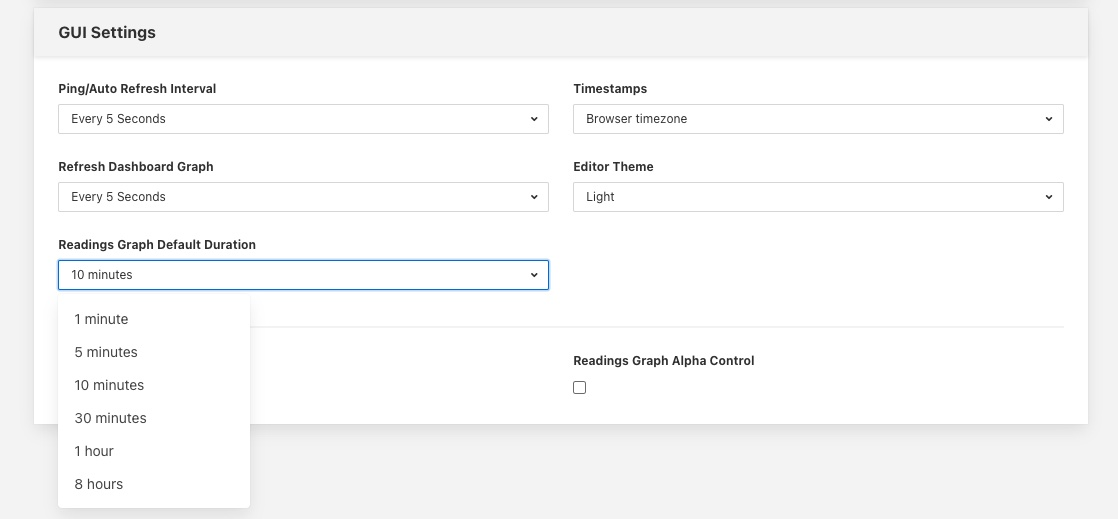
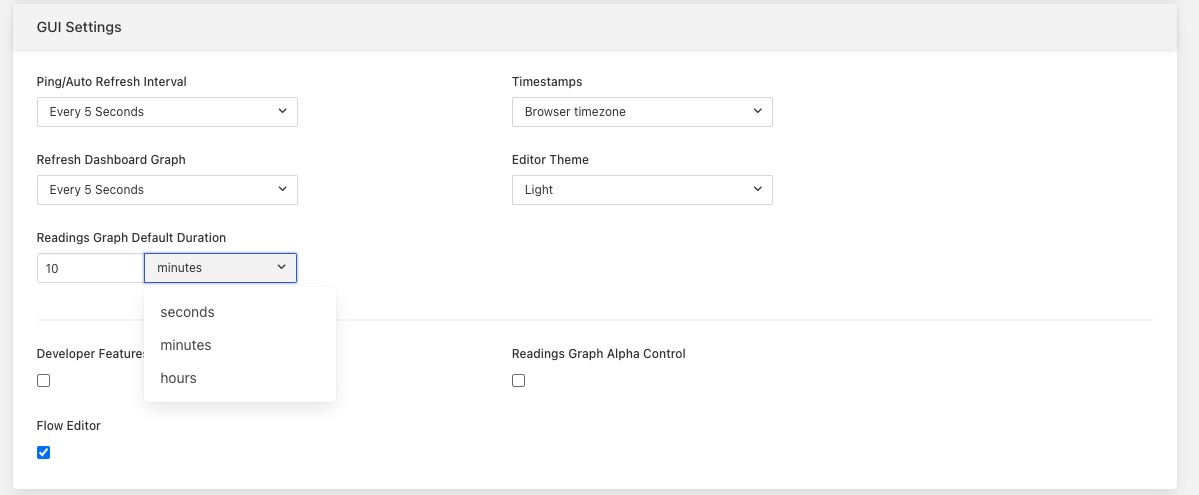
Update all sections

diff --git a/docs/quick_start/viewing.rst b/docs/quick_start/viewing.rst
@@ -3,15 +3,20 @@
 .. |view_graph| image:: ../images/view_graph.jpg
 .. |view_hide| image:: ../images/view_hide.jpg
 .. |view_summary| image:: ../images/view_summary.jpg
+.. |view_tabular| image:: ../images/view_tabular.jpg
 .. |view_times| image:: ../images/view_times.jpg
 .. |view_spreadsheet| image:: ../images/view_spreadsheet.jpg
 .. |gui_settings| image:: ../images/gui_settings.jpg
+.. |graph_buttons| image:: ../images/graph_buttons.jpg
+.. |graph_paused| image:: ../images/graph_paused.jpg
 .. |multi_graph1| image:: ../images/multi_graph1.jpg
 .. |multi_graph2| image:: ../images/multi_graph2.jpg
 .. |multi_graph3| image:: ../images/multi_graph3.jpg
 .. |latest_icon| image:: ../images/latest_icon.jpg
 .. |current_icon| image:: ../images/current_icon.jpg
 .. |latest_graph| image:: ../images/latest_graph.jpg
+.. |must_recent_icon| image:: ../images/must_recent_icon.jpg
+.. |must_recent_data| image:: ../images/must_recent_data.jpg
 
 Viewing Data
 ############
@@ -35,19 +40,46 @@ By clicking on the graph button next to each asset name, you can view a graph of
 | |view_graph| |
 +--------------+
 
-It is possible to change the time period to which the graph refers by use of the plugin list in the top left of the graph.
+It is possible to change the time period to which the graph refers by use of the time entry field and time units drop down menu in the top right of the screen.
 
 +--------------+
 | |view_times| |
 +--------------+
 
-It is also possible to change the default duration of a graph when it is first displayed. This is done via the *Settings* menu item.
+It is also possible to change the default duration of a graph when it is first displayed. This is done via the Settings* menu item.
 
 +----------------+
 | |gui_settings| |
 +----------------+
 
 This can be useful when very high frequency data is ingested into the system as it will prevent the initial graph that is displayed from pulling large amounts of data from the system and slowing down the response of the system and the GUI.
+
+Where an asset contains multiple data points each of these is displayed in a different colour. Graphs for particular data points can be toggled on and off by clicking on the key at the top of the graph. Those data points not should will be indicated by striking through the name of the data point.
+
++-------------+
+| |view_hide| |
++-------------+
+
+Adjusting Timeframe
+###################
+
+There are a number of button on the top left of the graph window that can be used to control the time period of the graph that is shown. 
+
++-----------------+
+| |graph_buttons| |
++-----------------+
+
+The default behavior of the graph window is to show the data up to the current point in time for as far back in time as is defined by the duration as described above. As new data arrives it will be plotted on the right hand side of the graph, and the graph will scroll to the left. Using these control buttons this behavior can be changed.
+
+Before you can use the two navigation buttons to navigate the graph you must first pause the graph update by clicking on the pause button. The two navigation buttons will now become active and the pause button will change to a play symbol.
+
++----------------+
+| |graph_paused| |
++----------------+
+
+If you click on the play button the graph will once move switch to automatically updating and will shown the time window for the current time.
+
+The two double arrow button allow you to move backwards and forwards in time. Clicking the arrows facing left will move you back in time by the current window of data that is shown and clicking the right arrows moves you forwards in time.
 
 When an asset does not continuously ingest data you may need to move back in time in order to see the last data that was ingested for an ingest. The interface provides a convenient shortcut to allow you to quickly navigate back in time to see the last data that was ingested. Simply click in the icon to the left of the time navigation buttons.
 
@@ -69,11 +101,8 @@ Notice that the icon used to get this graph has now changed.
 
 Clicking on this icon will cause the graph to run to the current time frame and show any data that is freshly ingested.
 
-Where an asset contains multiple data points each of these is displayed in a different colour. Graphs for particular data points can be toggled on and off by clicking on the key at the top of the graph. Those data points not should will be indicated by striking through the name of the data point.
-
-+-------------+
-| |view_hide| |
-+-------------+
+Viewing Multiple Assets
+#######################
 
 It is also possible to overlay the graphs for other assets onto the asset you are viewing.
 
@@ -91,6 +120,15 @@ All the data points from that asset will then be added to the graph. Multiple as
 
 +----------------+
 | |multi_graph3| |
++----------------+
+
+Non-graphical Data
+##################
+
+Some types data are not capable of being displayed in a graph, such as string data and images. These are shown in separates tabs on the screen. String data will be shown in a *Tabular Data* tab.
+
++----------------+
+| |view_tabular| |
 +----------------+
 
 A summary tab is also available, this will show the minimum, maximum and average values for each of the data points. Click on *Summary* to show the summary tab.
@@ -113,3 +151,16 @@ The file contains a header row with the names of the data points within the asse
 | |view_spreadsheet| |
 +--------------------+
 
+Must Recent Data
+~~~~~~~~~~~~~~~~
+
+.. image:: ../images/most_recent_icon.jpg
+   :align: left
+
+By clicking on the most recent reading icon you can view just the latest values that have been read for the given asset. The data will be displayed in a tabular format.
+
++--------------------+
+| |most_recent_data| |
++--------------------+
+
+This data will be automatically refreshed as new data arrives.
